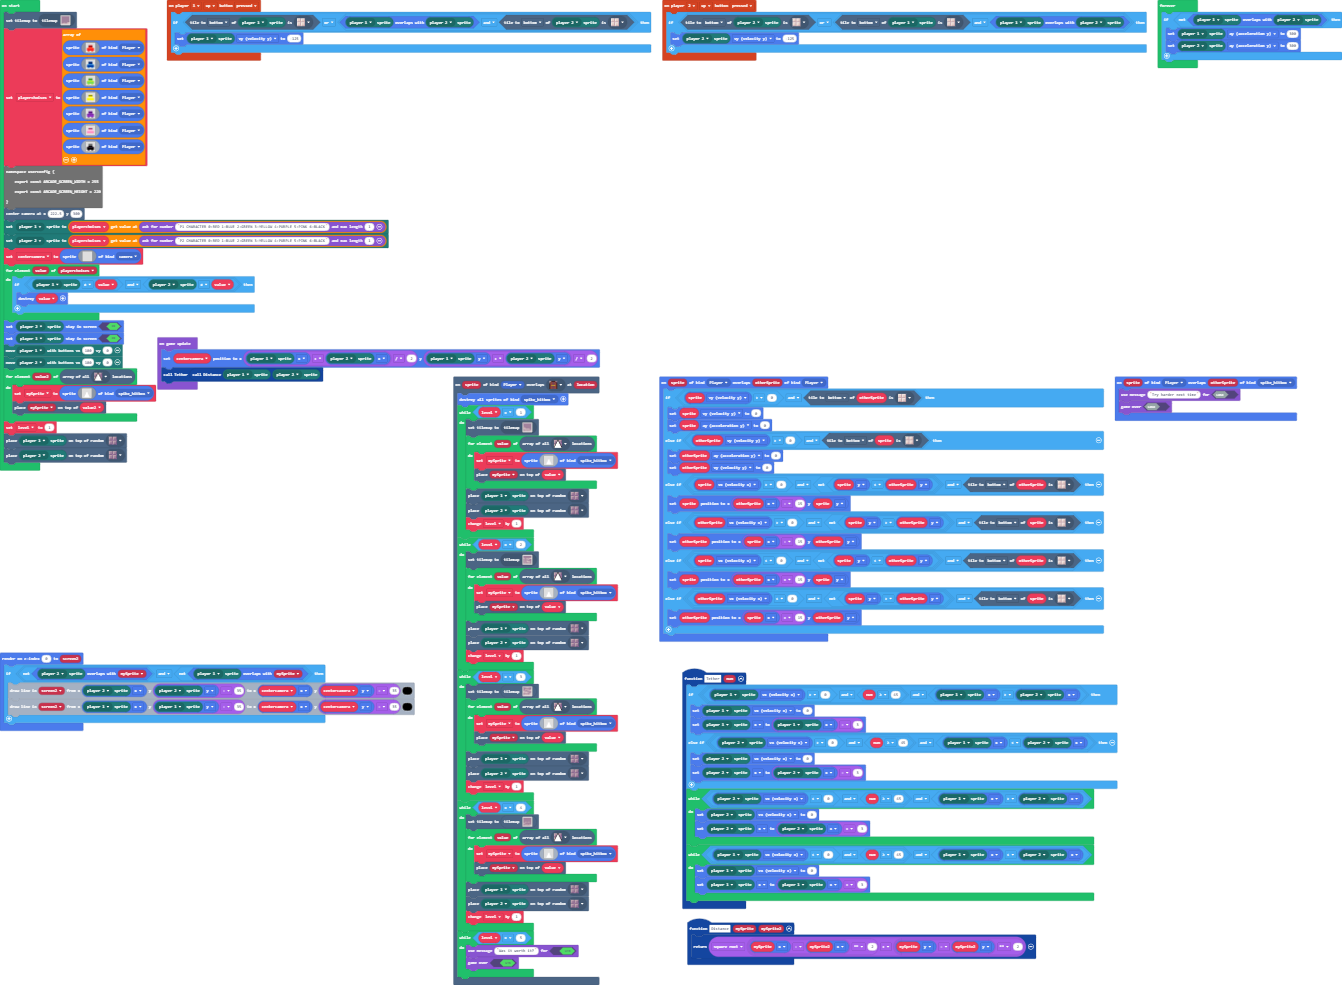
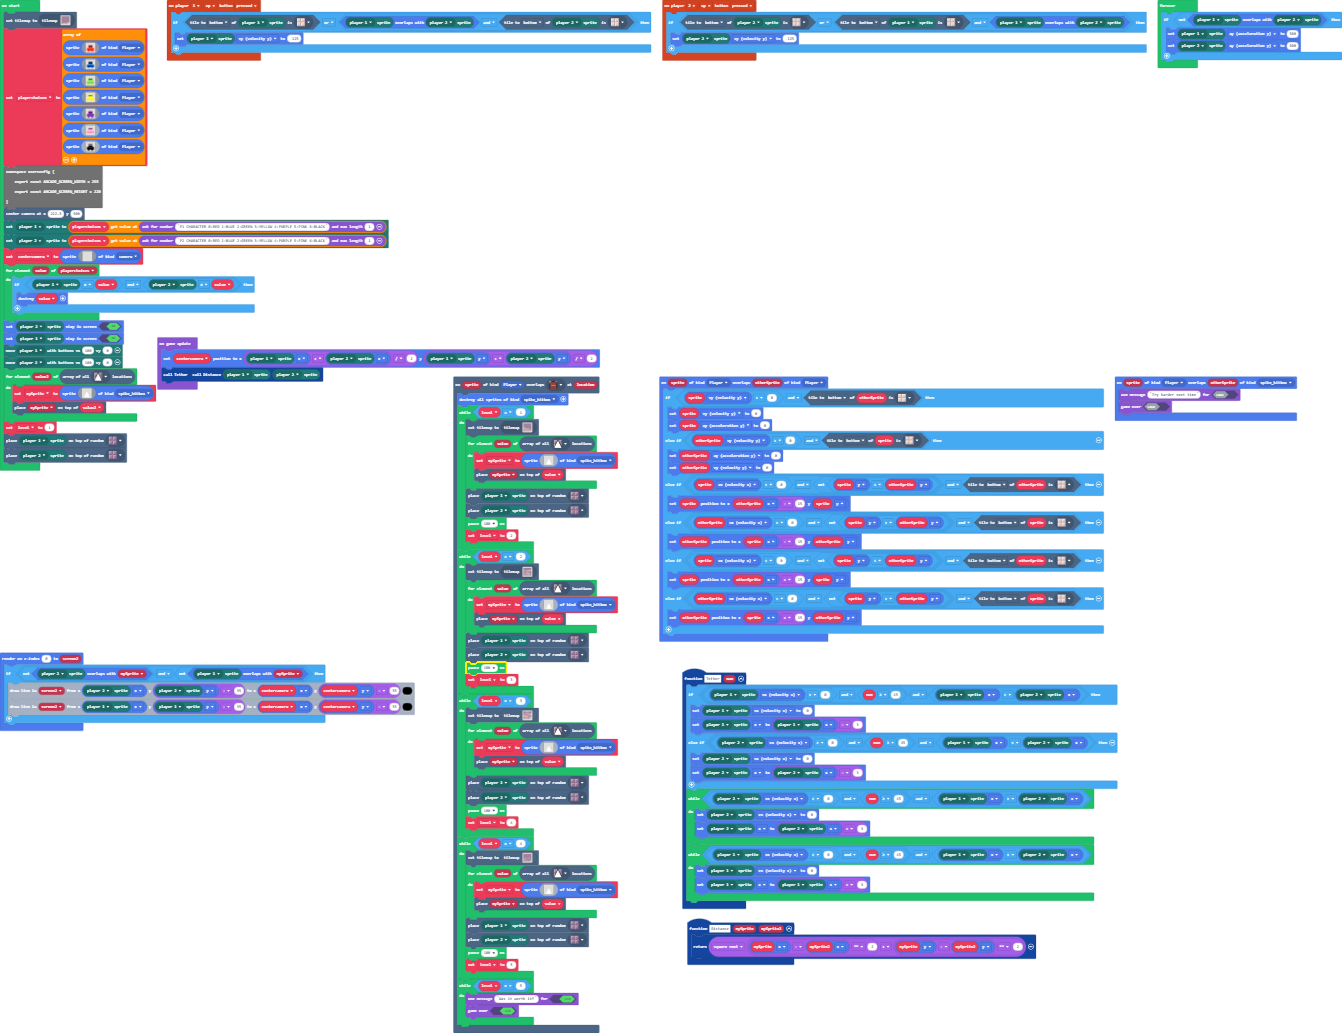
Update main.blocks, main.ts

Changed region(s): [[0.0, 0.0, 1.0, 1.0], [0.4888, 0.3655, 0.9776, 1.0]]

diff --git a/main.ts b/main.ts
@@ -30,7 +30,8 @@ scene.onOverlapTile(SpriteKind.Player, assets.tile`myTile0`, function (sprite, l
         }
         tiles.placeOnRandomTile(mp.getPlayerSprite(mp.playerSelector(mp.PlayerNumber.One)), assets.tile`myTile3`)
         tiles.placeOnRandomTile(mp.getPlayerSprite(mp.playerSelector(mp.PlayerNumber.Two)), assets.tile`myTile2`)
-        level += 1
+        pause(100)
+        level = 2
     }
     while (level == 2) {
         tiles.setCurrentTilemap(tilemap`level3`)
@@ -57,7 +58,8 @@ scene.onOverlapTile(SpriteKind.Player, assets.tile`myTile0`, function (sprite, l
         }
         tiles.placeOnRandomTile(mp.getPlayerSprite(mp.playerSelector(mp.PlayerNumber.One)), assets.tile`myTile3`)
         tiles.placeOnRandomTile(mp.getPlayerSprite(mp.playerSelector(mp.PlayerNumber.Two)), assets.tile`myTile2`)
-        level += 1
+        pause(100)
+        level = 3
     }
     while (level == 3) {
         tiles.setCurrentTilemap(tilemap`level4`)
@@ -84,7 +86,8 @@ scene.onOverlapTile(SpriteKind.Player, assets.tile`myTile0`, function (sprite, l
         }
         tiles.placeOnRandomTile(mp.getPlayerSprite(mp.playerSelector(mp.PlayerNumber.One)), assets.tile`myTile3`)
         tiles.placeOnRandomTile(mp.getPlayerSprite(mp.playerSelector(mp.PlayerNumber.Two)), assets.tile`myTile2`)
-        level += 1
+        pause(100)
+        level = 4
     }
     while (level == 4) {
         tiles.setCurrentTilemap(tilemap`level5`)
@@ -111,7 +114,8 @@ scene.onOverlapTile(SpriteKind.Player, assets.tile`myTile0`, function (sprite, l
         }
         tiles.placeOnRandomTile(mp.getPlayerSprite(mp.playerSelector(mp.PlayerNumber.One)), assets.tile`myTile3`)
         tiles.placeOnRandomTile(mp.getPlayerSprite(mp.playerSelector(mp.PlayerNumber.Two)), assets.tile`myTile2`)
-        level += 1
+        pause(100)
+        level = 5
     }
     while (level == 5) {
         game.setGameOverMessage(true, "Was it worth it?")
